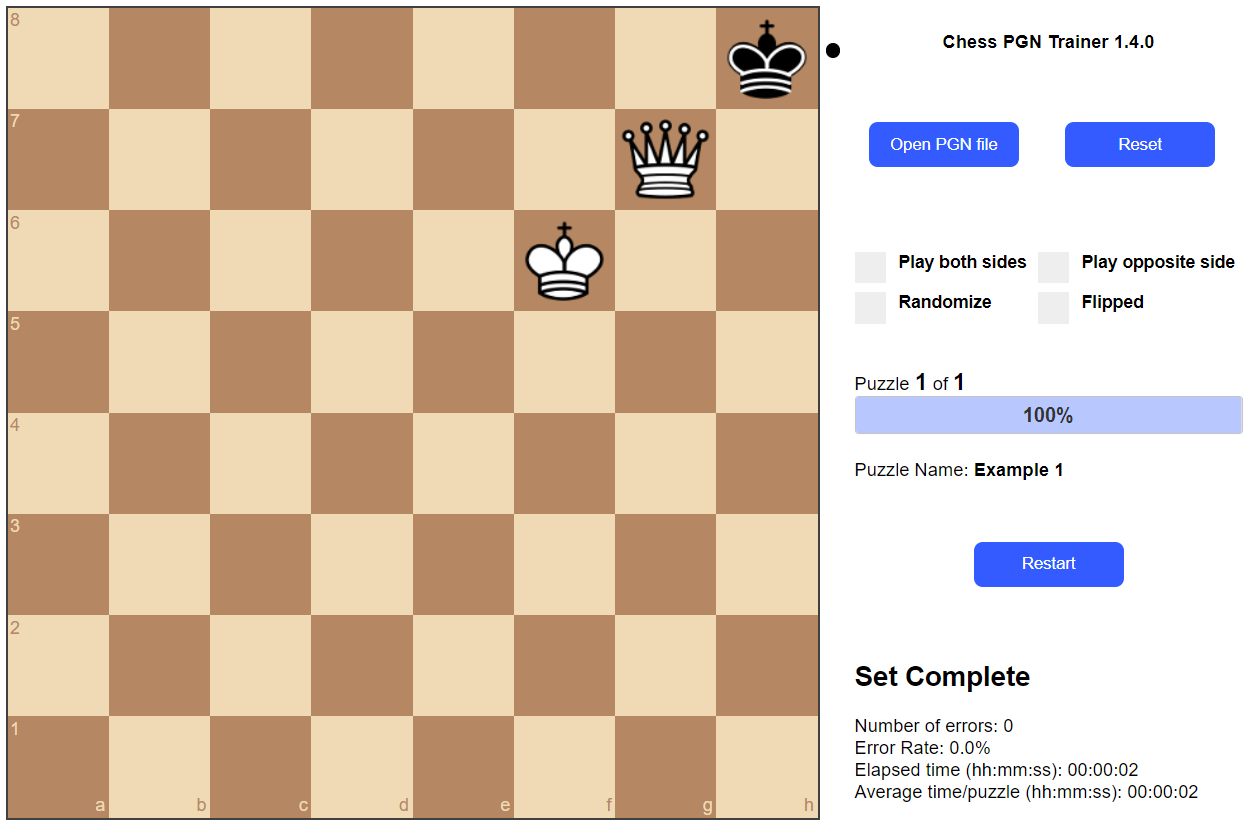
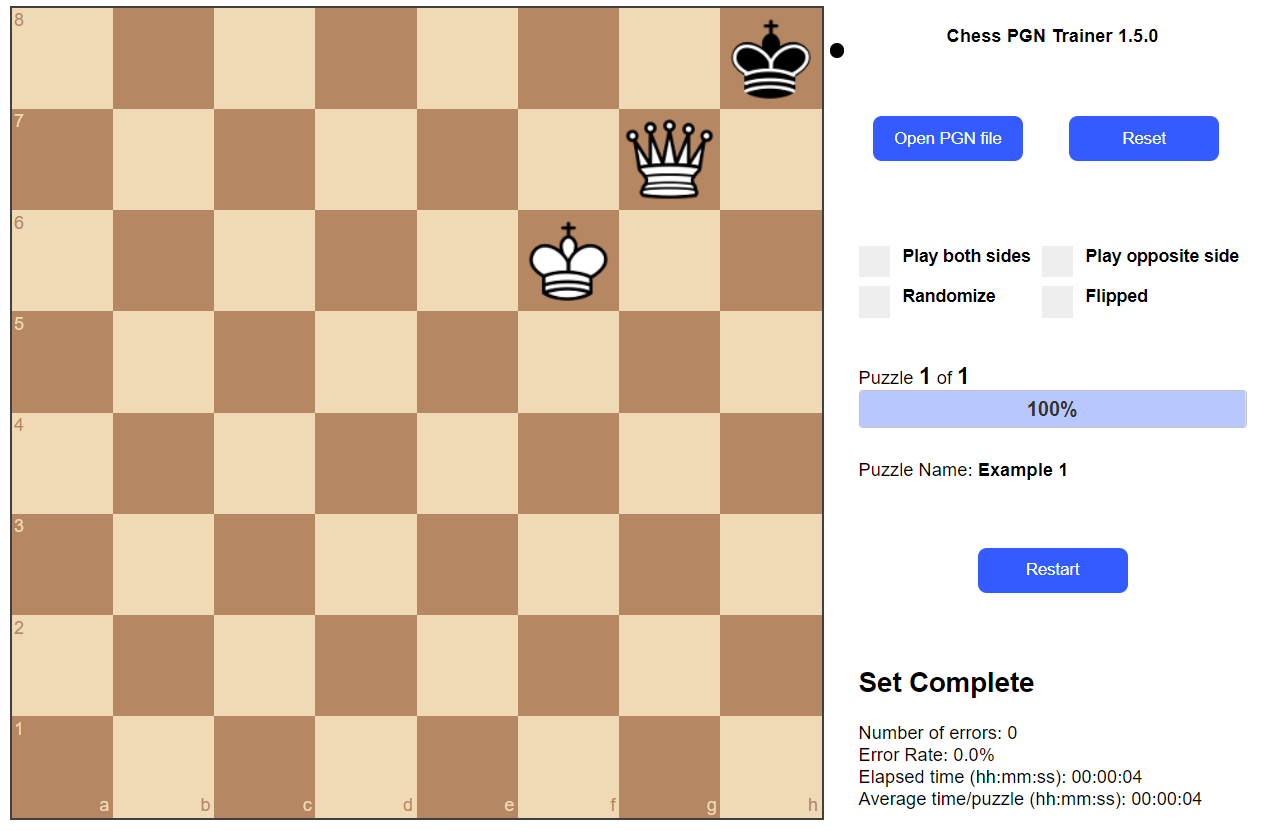
Updates & Fixes
Fixed some typos and added two new features:
1. Added the ability to set default options via new tags in the PGN.
2. As part of the new tags feature, added a tag to allow for dumping of the FEN of the current puzzle to the screen in the event you want to review the specific puzzle in the PGN.  Useful if needing to troubleshoot a specific puzzle.

diff --git a/assets/Chess-PGN-Trainer.js b/assets/Chess-PGN-Trainer.js
@@ -16,12 +16,13 @@
 // -----------------------
 
 // Board & Overall configuration-related variables
-const version = '1.4.1';
+const version = '1.5.0';
 let board;
 let blankboard;
 let pieceTheme;
 let game;
 let config;
+let OutputFEN = false;
 
 // Game & Performance variables
 let moveCfg;
@@ -368,6 +369,15 @@ function parsepgn(PGNData) {
 			const { tags } = PgnParser.parse(game.tags, { startRule: 'tags' });
 			const { moves } = PgnParser.parse(game.pgn, { startRule: 'game' });
 
+			// Set the options checkboxes if any of the special tags have a value of 1
+			if (tags.PGNTrainerBothSides === '1') {$( "#playbothsides" ).prop( "checked", true );}
+			if (tags.PGNTrainerOppositeSide === '1') {$( "#playoppositeside" ).prop( "checked", true );}
+			if (tags.PGNTrainerRandomize === '1') {$( "#randomizeSet" ).prop( "checked", true );}
+			if (tags.PGNTrainerFlipped === '1') {$( "#flipped" ).prop( "checked", true );}
+
+			// Set the debug flag if specified in the PGN
+			if (tags.PGNTrainerOutputFEN === '1') {OutputFEN = true;}
+
 			const puzzle = {};
 			puzzle.Event = (tags.Event);
 			puzzle.FEN = (tags.FEN);
@@ -513,6 +523,11 @@ function loadPuzzle(PGNPuzzle) {
 	// Update the screen with the value of the PGN Event tag (if any)
 	$('#puzzlename').text(PGNPuzzle.Event);
 
+	// Output the puzzle's FEN if debugging is set
+	if (OutputFEN) {
+		$('#puzzlename').text(PGNPuzzle.Event + "\n\n" + PGNPuzzle.FEN);
+	}
+
 	// Play the first move if player is playing second and not both sides
 	if ($('#playoppositeside').is(':checked') && !$('#playbothsides').is(':checked')) {
 		game.move(moveHistory[0]);
@@ -650,6 +665,7 @@ function resetgame() {
 	pauseDateTimeTotal = 0;
 	error = false;
 	setcomplete = false;
+	OutputFEN = false;
 
 	// Create the boards
 	board = new Chessboard('myBoard', config);

diff --git a/index.html b/index.html
@@ -10,7 +10,7 @@
 	<link rel="shortcut icon" href="#" />
 
 	<!-- Needed external includes -->
-	<!-- CSS Scheme for application overall (everything except the chessboard itself)-->
+	<!-- CSS Scheme for application overall (everything except the chessboard itself) -->
 	<link rel="stylesheet" href="/assets/pagestyle.css">
 
 	<!-- CSS for Chessboardjs.CSS -->
@@ -20,7 +20,7 @@
 	<!-- JQuery include (required for chessboard.js) -->
 	<script src="https://ajax.googleapis.com/ajax/libs/jquery/3.7.0/jquery.min.js"></script>
 
-	<!-- JQuery UI (needed for showing the pawn promotion dialog)-->
+	<!-- JQuery UI (needed for showing the pawn promotion dialog) -->
 	<link href="https://code.jquery.com/ui/1.13.2/themes/base/jquery-ui.css" rel="stylesheet">
 	<script src="https://code.jquery.com/ui/1.13.2/jquery-ui.js"></script>
 
@@ -160,7 +160,7 @@
 					</tr>
 
 					<tr>
-						<td colspan="2" class="tdspacer2">
+						<td colspan="2" class="puzzletitle">
 							Puzzle Name:
 							<span id="puzzlename" style="font-weight: bold;"></span>
 						</td>
@@ -196,7 +196,7 @@
 
 	</table>
 
-	<!-- Custom code for this project (needs to be here AFTER elements are build & labelled)-->
+	<!-- Custom code for this project (needs to be here AFTER elements are built & labelled)-->
 	<script src="./assets/Chess-PGN-Trainer.js"></script>
 
 </body>

diff --git a/assets/pagestyle.css b/assets/pagestyle.css
@@ -44,6 +44,14 @@ body {
 	font-size: 14pt;
 }
 
+.puzzletitle {
+	width: 310px;
+	max-width: 310px;
+	height: 60px;
+	overflow-wrap: break-word; 
+	word-wrap: break-word;
+}
+
 table {
 	/*border: 1px solid blue;*/
 	width: 80%;
